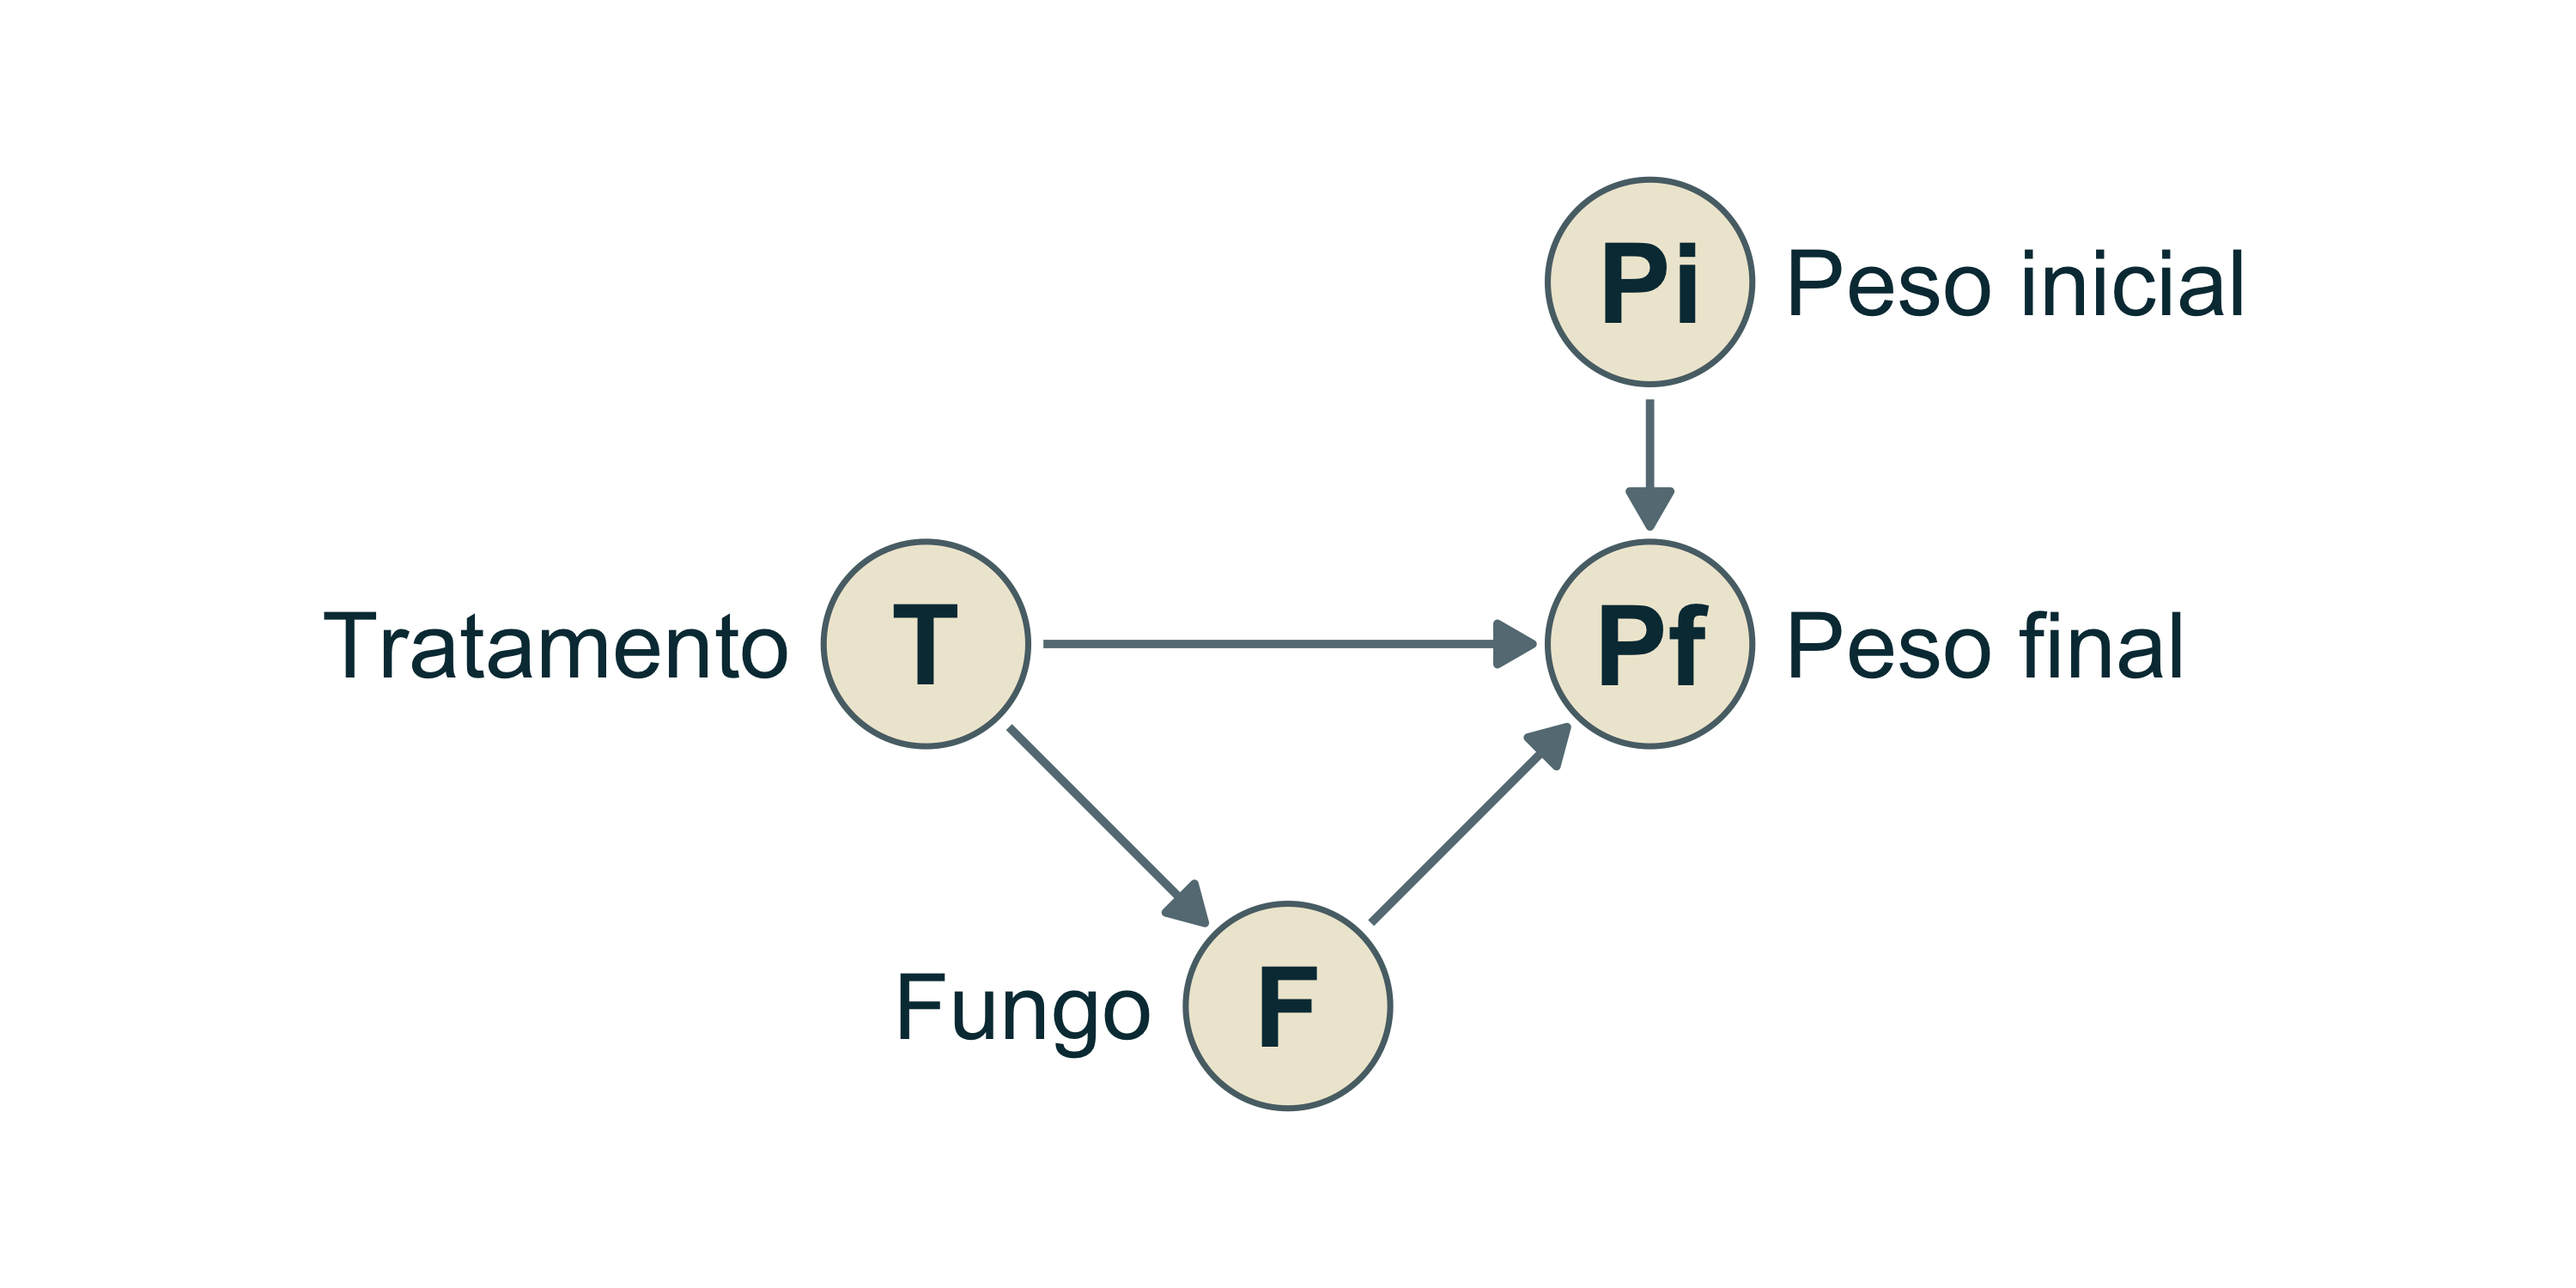
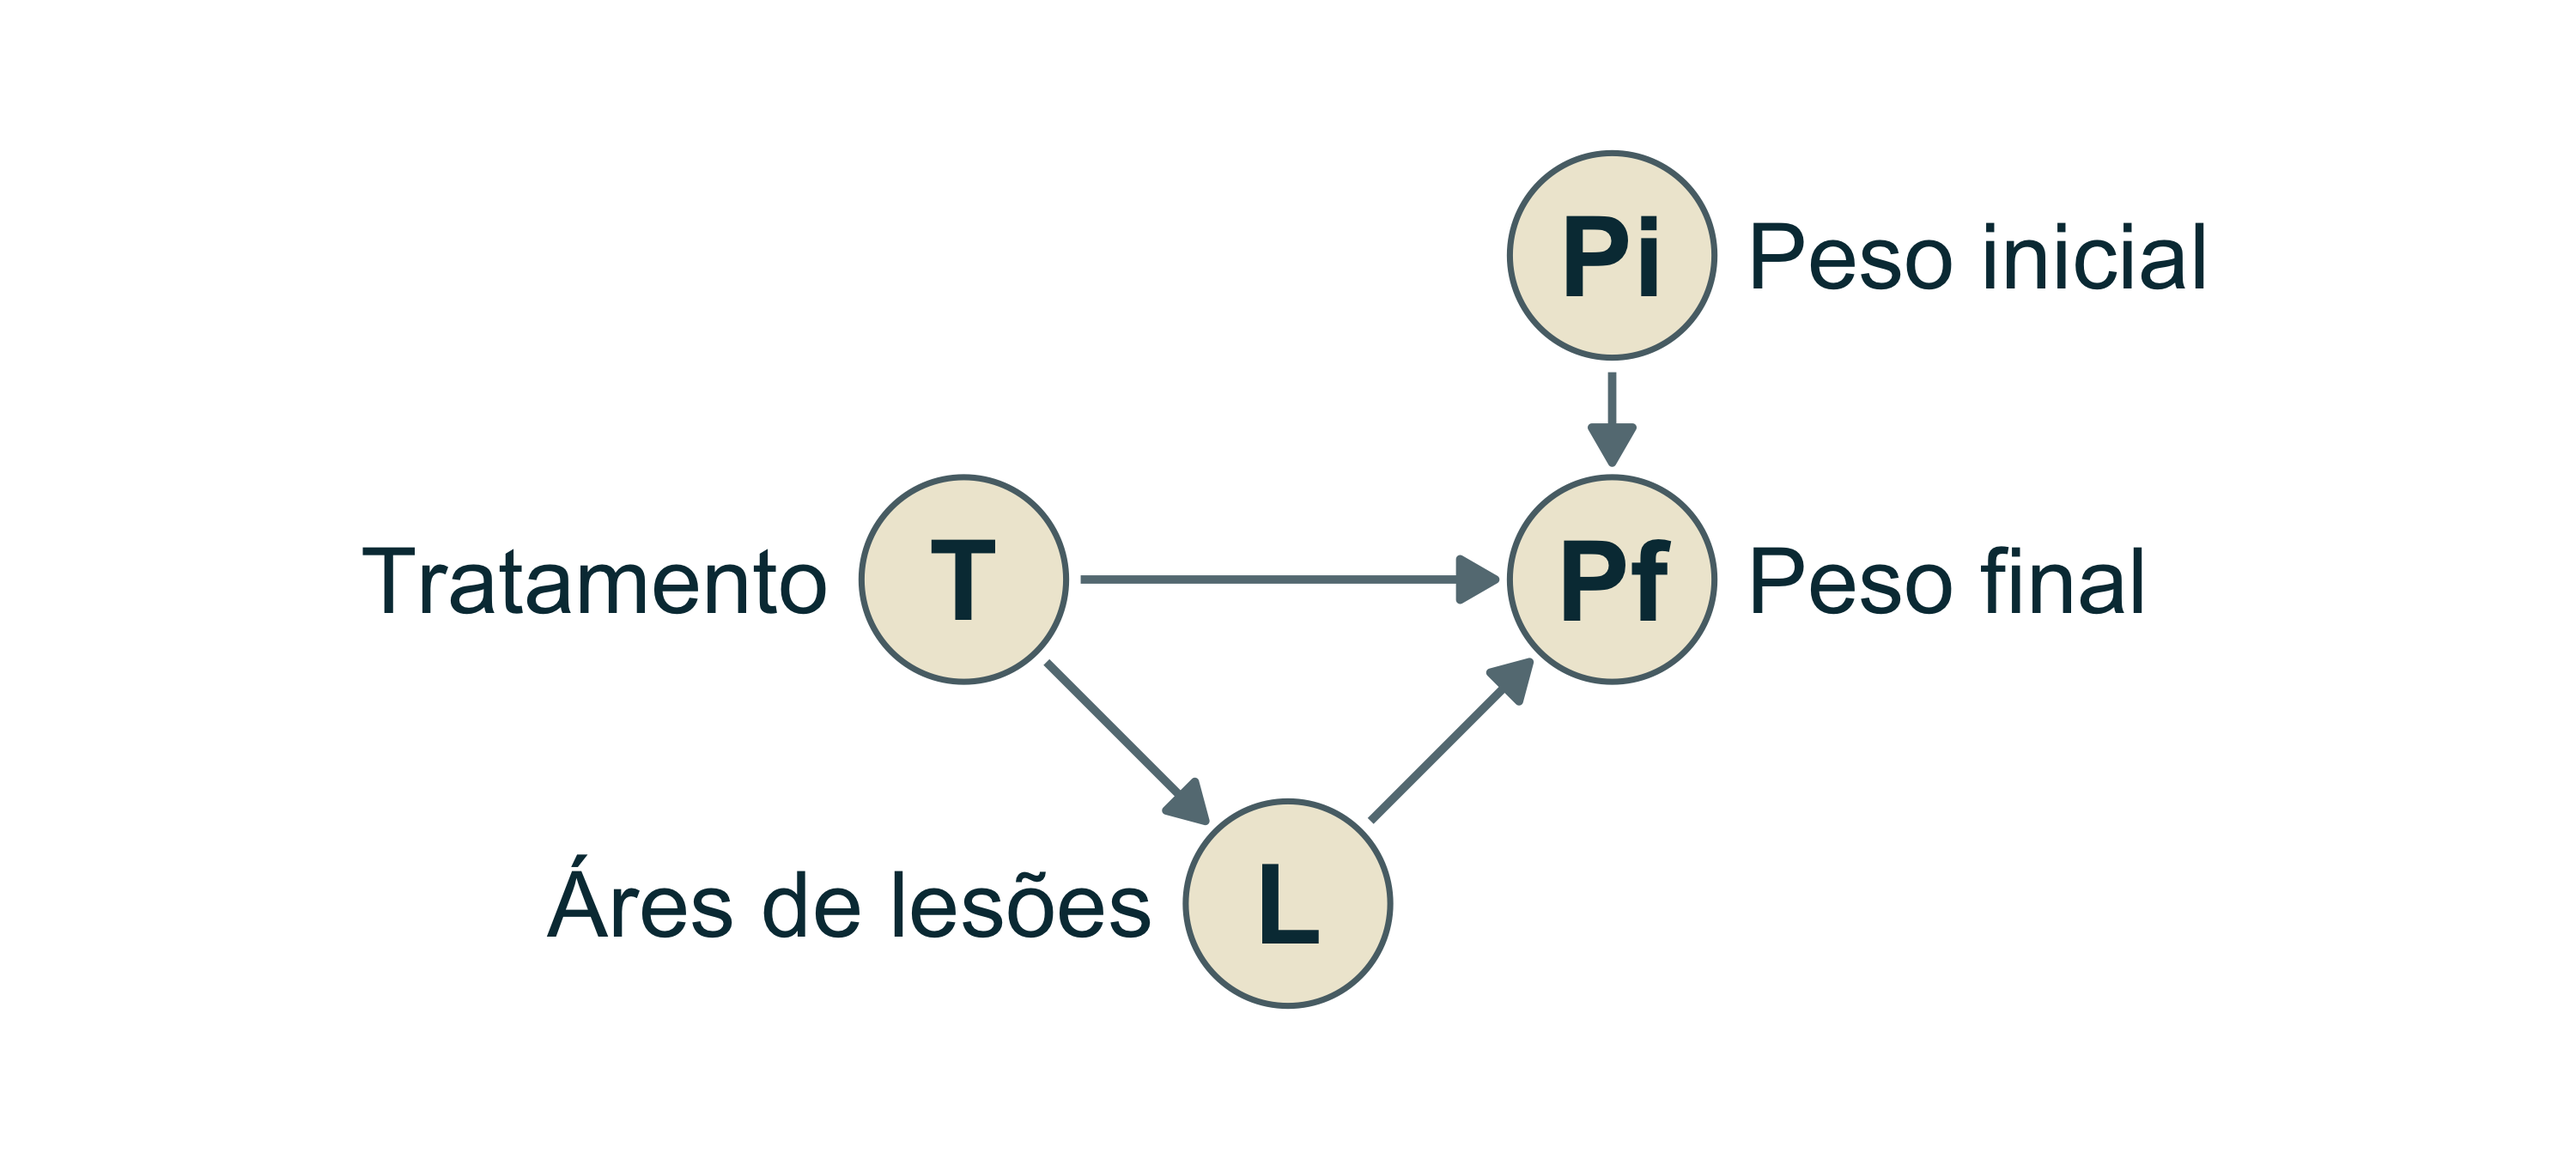
more causal 2

diff --git a/Aulas/Aula_Inferencia_Causal_I.html b/Aulas/Aula_Inferencia_Causal_I.html
@@ -188,7 +188,7 @@ Como um fator de confusão afeta nossa estimativa do efeito de `\(x\)` sobre `\(
 
 # Fork
 
-Efeito direto de `\(x\)` sobre `\(y\)`, mais um fator de confusão `\(z\)`
+## Uma variável `\(z\)` afeta tanto `\(x\)` quanto `\(y\)`
 
 &lt;img src="Aula_Inferencia_Causal_I_files/figure-html/figura-dag-fork-efeito-1.png" alt="" width="45%" style="display: block; margin: auto;" /&gt;
 
@@ -276,7 +276,7 @@ O ponto azul indica o valor verdadeiro (`\(0.5\)`).
 
 ## Fork: dados e reta ajustada sem controlar por `\(z\)`
 
-&lt;img src="Aula_Inferencia_Causal_I_files/figure-html/figura-fork-dados-sem-correcao-1.png" alt="" width="45%" style="display: block; margin: auto;" /&gt;
+&lt;img src="Aula_Inferencia_Causal_I_files/figure-html/figura-fork-dados-sem-correcao-1.png" alt="" width="70%" style="display: block; margin: auto;" /&gt;
 
 ---
 
@@ -290,8 +290,7 @@ $$
 y &amp;\sim \mathrm{Normal}(\mu, \sigma) \\
 \mu &amp;= a + \beta_{x}x + \beta_{z}z \\
 \alpha &amp;\sim \mathrm{Normal}(0, 5) \\
-\beta_{x} &amp;\sim \mathrm{Normal}(0, 0.3) \\
-\beta_{z} &amp;\sim \mathrm{Normal}(0, 0.3) \\
+\beta_{x}, \beta_{z} &amp;\sim \mathrm{Normal}(0, 0.3) \\
 \sigma &amp;\sim \mathrm{Exponential}(1)
 \end{aligned}`
 $$
@@ -449,9 +448,9 @@ Em Yellowstone, podemos perguntar se o risco de predação por lobos altera onde
 
 ---
 
-## Pipe
+# Pipe
 
-- Todo o efeito de `\(x\)` sobre `\(y\)` é mediado por `\(z\)`
+## O efeito de `\(x\)` em `\(y\)` é mediado por `\(z\)`
 
 &lt;img src="Aula_Inferencia_Causal_I_files/figure-html/figura-dag-pipe-efeito-1.png" alt="" width="100%" style="display: block; margin: auto;" /&gt;
 
@@ -515,11 +514,11 @@ sigma 1.35 0.07 1.24  1.45
 --
 
 .pull-right[
-### Estimativa do efeito de `\(x\)` sem controlar por `\(z\)`
+Estimativa do efeito de `\(x\)` sem controlar por `\(z\)`
 
 O ponto azul é o efeito total de `\(x\)` sobre `\(y\)` (aprox. `\(2\,E[p(1-p)]\)`, com `\(p = \mathrm{invlogit}(x)\)`).
 
-&lt;img src="Aula_Inferencia_Causal_I_files/figure-html/figura-pipe-coef-sem-correcao-1.png" alt="" width="60%" style="display: block; margin: auto;" /&gt;
+&lt;img src="Aula_Inferencia_Causal_I_files/figure-html/figura-pipe-coef-sem-correcao-1.png" alt="" width="70%" style="display: block; margin: auto;" /&gt;
 ]
 
 ---
@@ -561,11 +560,11 @@ sigma  0.97 0.05  0.89  1.05
 --
 
 .pull-right[
-### Estimativa do efeito de `\(x\)` controlando por `\(z\)`
+Estimativa do efeito de `\(x\)` controlando por `\(z\)`
 
-O ponto azul é o efeito direto de `\(x\)` sobre `\(y\)` (`\(0\)`): controlar pelo mediador bloqueia o caminho.
+O ponto azul é o efeito direto de `\(x\)` sobre `\(y\)` (`\(0\)`): controlar pelo mediador bloqueia o caminho causal entre `\(x\)` e `\(y\)`.
 
-&lt;img src="Aula_Inferencia_Causal_I_files/figure-html/figura-pipe-coef-com-correcao-1.png" alt="" width="60%" style="display: block; margin: auto;" /&gt;
+&lt;img src="Aula_Inferencia_Causal_I_files/figure-html/figura-pipe-coef-com-correcao-1.png" alt="" width="70%" style="display: block; margin: auto;" /&gt;
 ]
 
 ---
@@ -600,13 +599,15 @@ O ponto azul é o efeito direto de `\(x\)` sobre `\(y\)` (`\(0\)`): controlar pe
 
 - Um erro comum é incluir variáveis medidas após o tratamento.
 
+- Existe uma esperança que incluindo o mediador, seria possivel estimar o efeito direto de `\(x\)` sobre `\(y\)`. Mas, na prática, isso é muito difícil.
+
 &lt;img src="figures/DAGS/x-y_pipe.svg" alt="" width="25%" style="display: block; margin: auto;" /&gt;
 
 ---
 
 ## Variáveis pós-tratamento
 
-Ao avaliar a eficácia de um tratamento contra fungos, grande parte do efeito do tratamento sobre o peso final pode ser mediada pela presença do fungo. Como o fungo é medido após o tratamento, incluí-lo como controle pode mascarar o efeito total da intervenção.
+Você conduz um experimento para testar se a aplicação de um novo fungicida biológico aumenta a biomassa final de mudas de uma espécie de plantas. Semanas após a aplicação, você mede a carga fúngica (porcentagem da área foliar com lesões) e, ao final da estação, a biomassa seca das plantas. O objetivo é quantificar a eficácia total do tratamento, mas surge a dúvida se a carga fúngica foliar deve ser incluída como covariável no modelo.
 
 &lt;img src="Aula_Inferencia_Causal_I_files/figure-html/figura-dag-tratamento-fungico-1.png" alt="" width="80%" style="display: block; margin: auto;" /&gt;
 
@@ -684,7 +685,7 @@ Montgomery et al. (2018).
 --
 
 
-- **Exercicio:** Uma colega te escreve dizendo que está avaliando o efeito de uma droga numa população de macacos. A pergunta é  se a droga afeta a pressão arterial. Ela mediu a quantidade de droga no sangue e a pressão arterial. A dúvida é se ela deveria incluir a quantidade de droga no sangue como covariável no modelo. 
+- **Exercicio:** Uma colega te escreve dizendo que está avaliando o efeito da fragmentação florestal (áreas contínuas vs. fragmentadas) na taxa de sobrevivência de filhotes de uma espécie de pássaro. A pergunta principal é se viver em fragmentos diminui a sobrevivência dos filhotes. No entanto, ela também mediu a abundância de predadores de ninho em cada área (que costuma ser bem maior nas bordas dos fragmentos). A dúvida é se ela deveria incluir a abundância de predadores como covariável no modelo.
 
 O que você responde?
 
@@ -831,6 +832,16 @@ Qualidade e localização são independentes, mas ambas aumentam a chance de o r
 
 &lt;img src="Aula_Inferencia_Causal_I_files/figure-html/figura-simulacao-restaurantes-1.png" alt="" width="75%" style="display: block; margin: auto;" /&gt;
 
+
+---
+
+## Exemplo: amostras em coleções biológicas
+
+Um pesquisador quer testar se existe uma relação entre o tamanho corporal e o quão chamativa é a coloração (ex: cores de advertência) em uma família de anfíbios. Ele compila um banco de dados usando registros de coleções de museus e levantamentos de campo.
+
+Vamos supor que o tamanho corporal e a coloração não estão relacionados, mas ambos afetam a probabilidade de um indivíduo ser detectado e coletado. Assim, ao usar indivíduos coletados, o pesquisador pode encontrar uma associação espúria entre tamanho corporal e coloração.
+
+&lt;img src="Aula_Inferencia_Causal_I_files/figure-html/figura-dag-colisor-anfibio-1.png" alt="" width="100%" style="display: block; margin: auto;" /&gt;
 
 ---
 

diff --git a/Aulas/Aula_Inferencia_Causal_II.html b/Aulas/Aula_Inferencia_Causal_II.html
@@ -48,18 +48,118 @@ class: center, middle, inverse, title-slide
 
 
 
-## Usando DAGs para construir modelos
+## Recaptitulando
 
-Se representarmos nossas relações causais propostas por meio de DAGs, teremos um conjunto de regras que nos informa quais variáveis incluir no modelo para estimar determinado efeito.
+.pull-left[
+- O uso de modelos estatísticos para estimativas de efeitos causais depende de um modelo causal subjacente.
+- O modelo causal pode ser representado por um DAG, que representa um conjunto de hipótese sobre as independências condicionais entre as variáveis.
+- Todas as relações contidas nos DAGs podem ser decompostas em 3 tipos de estruturas: **pipes**, **forks** e **colliders**.
+- Cada tipo de relação tem implicações diferentes para o efeito estimado por um modelo estatístico.
+]
+.pull-right[
+**Pipe**
 
-- Ferramenta automatizada: [dagitty.net](http://www.dagitty.net/dags.html)
+&lt;img src="figures/DAGS/pipe.svg" alt="" width="90%" style="display: block; margin: auto;" /&gt;
+
+**Fork**
+
+&lt;img src="figures/DAGS/fork.svg" alt="" width="90%" style="display: block; margin: auto;" /&gt;
+
+**Collider**
+
+&lt;img src="figures/DAGS/colider.svg" alt="" width="90%" style="display: block; margin: auto;" /&gt;
+]
 
 ---
 
-## Caminhos abertos e fechados
+## Usando DAGs para construir modelos
+
+.pull-left[
+- Se representarmos nossas relações causais propostas por meio de DAGs, teremos um conjunto de regras que nos informa quais variáveis incluir no modelo para estimar determinado efeito.
+
+- **do-calculus**: Existem regras matemáticas que permitem derivar o efeito causal de uma variável sobre outra a partir de um DAG.
+
+
+$$
+`\begin{aligned}
+x_1 &amp;= \mathcal{f}(u_1) \\
+x_2 &amp;= \mathcal{f}(x_1, u_2) \\
+x_3 &amp;= \mathcal{f}(x_1, u_3) \\
+x_4 &amp;= \mathcal{f}(x_2, x_3, u_4) \\
+x_5 &amp;= \mathcal{f}(x_4, u_5)
+\end{aligned}`
+$$
+
+]
+.pull-right[
+&lt;img src="Aula_Inferencia_Causal_II_files/figure-html/figura-dag-xy-condicionado-nou-1.png" alt="" width="100%" style="display: block; margin: auto;" /&gt;
+] 
+
+---
+
+## Representando intervenções
+
+.pull-left[
+
+- Vamos imaginar uma intervenção na variável "regador" (`\(x_2\)`), que é uma variável que podemos manipular. A intervenção é representada por um nó de ação `\(do(x_2)\)`, que remove todas as setas que entram em `\(x_2\)`.
+
+$$
+`\begin{aligned}
+x_1 &amp;= \mathcal{f}(u_1) \\
+x_2 &amp;= \mathcal{f}(x_1, u_2) \\
+x_3 &amp;= \mathcal{f}(x_1, u_3) \\
+x_4 &amp;= \mathcal{f}(x_2, x_3, u_4) \\
+x_5 &amp;= \mathcal{f}(x_4, u_5)
+\end{aligned}`
+$$
+
+]
+.pull-right[
+&lt;img src="Aula_Inferencia_Causal_II_files/figure-html/figura-dag-xy-condicionado-chuva-1.png" alt="" width="100%" style="display: block; margin: auto;" /&gt;
+] 
+
+---
+
+## Representando intervenções
+
+.pull-left[
+
+- Vamos imaginar uma intervenção na variável "regador" (`\(x_2\)`), que é uma variável que podemos manipular. A intervenção é representada por um nó de ação `\(do(x_2)\)`, que remove todas as setas que entram em `\(x_2\)`.
+
+$$
+`\begin{aligned}
+x_1 &amp;= \mathcal{f}(u_1) \\
+x_2^* &amp;= \mathrm{do}(x_2 = \text{ligado}) \\
+x_3 &amp;= \mathcal{f}(x_1, u_3) \\
+x_4 &amp;= \mathcal{f}(x_2, x_3, u_4) \\
+x_5 &amp;= \mathcal{f}(x_4, u_5)
+\end{aligned}`
+$$
+
+]
+.pull-right[
+&lt;img src="Aula_Inferencia_Causal_II_files/figure-html/figura-dag-xy-condicionado-chuva-x2-1.png" alt="" width="100%" style="display: block; margin: auto;" /&gt;
+] 
+
+---
+
+## Em que condições podemos estimar o efeito causal de `\(X\)` sobre `\(Y\)`?
+
+- Quando: `\(p(y | do(x)) = p(y | x, z)\)`
+
+- Em quais condições existe um conjunto de variáveis `\(Z\)` que podemos controlar para estimar o efeito causal de `\(X\)` sobre `\(Y\)`?
+
+---
+
+## Caminhos 
+
+
 
 - Caminhos que contêm caminhos ou bifurcações não controlados ficam abertos.
 - Caminhos que contêm colisores ficam fechados por padrão, mas se abrem quando condicionamos no colisor.
+
+
+- Ferramenta automatizada: [dagitty.net](http://www.dagitty.net/dags.html)
 
 ---
 

diff --git a/Aulas/xaringan-themer.css b/Aulas/xaringan-themer.css
@@ -271,15 +271,3 @@ table.dataTable.hover tbody tr:hover, table.dataTable.display tbody tr:hover {
 }
 
 
-
-
-/* Extra CSS */
-.pull-left > :first-child, .pull-right > :first-child {
-  margin-top: 0;
-}
-.destaque {
-  color: #dc322f;
-  font-size: 3em;
-  font-weight: bold;
-  text-align: center;
-}
